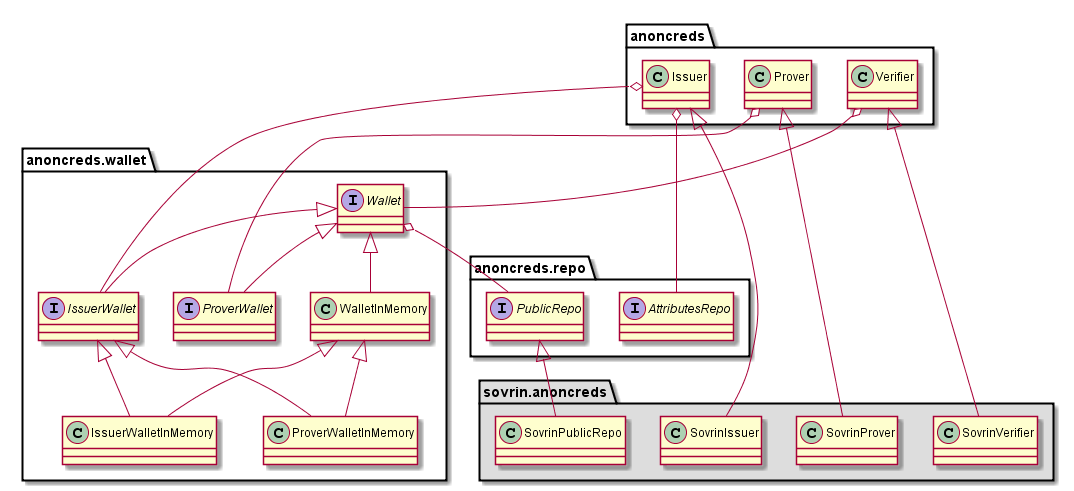
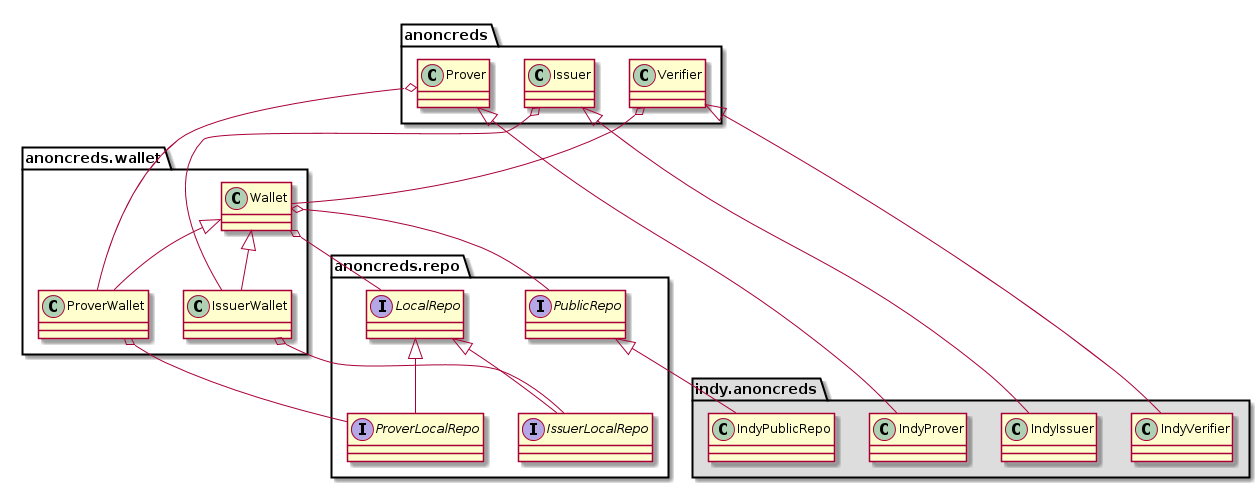
adjusted non-indy brands and related things (#94)

diff --git a/README.md b/README.md
@@ -1,5 +1,5 @@
 # AnonCreds: Anonymous credentials protocol implementation in python
-[![Build Status](https://jenkins.evernym.com/buildStatus/icon?job=Anoncreds/master)](https://jenkins.evernym.com/view/Core/job/Anoncreds/job/master/)
+[![Build Status](https://ci.evernym.com/buildStatus/icon?job=Anoncreds/master)](https://ci.evernym.com/view/Core/job/Anoncreds/job/master/)
 
 This is a python implementation of the anonymous credentials ideas developed by
 IBM Research (see https://idemix.wordpress.com/ and
@@ -36,8 +36,8 @@ Anonymous Credentials requires a cryptographic framework. We have tested it with
 ### Command-line Install
 
 ```
-git clone https://github.com/evernym/anoncreds.git
-cd anoncreds
+git clone https://github.com/hyperledger/indy-anoncreds.git
+cd indy-anoncreds
 sh setup-charm.sh
 ```
 
@@ -51,8 +51,8 @@ sh setup-charm.sh
 ### Command-line Install
 
 ```
-git clone https://github.com/evernym/anoncreds.git
-cd anoncreds
+git clone https://github.com/hyperledger/indy-anoncreds.git
+cd indy-anoncreds
 sh setup-charm-homebrew.sh
 ```
 

diff --git a/windows-installation-guide.md b/windows-installation-guide.md
@@ -63,7 +63,7 @@ If the pre-built packages (see above) doesn't work or not appropriate for some r
 
 6. Patch Python to be able to work with Mingw32
     1. Patch the cygwin compiler in distutils:
-        1. Open _C:\Users\sovrin\AppData\Local\Application Data\Programs\Python\Python35-32\Lib\distutils\cygwinccompiler.py_
+        1. Open _C:\Users\indy\AppData\Local\Application Data\Programs\Python\Python35-32\Lib\distutils\cygwinccompiler.py_
         2. Comment out all lines with `get_msvcr()` call.
     
 7. Build charm-crypto
